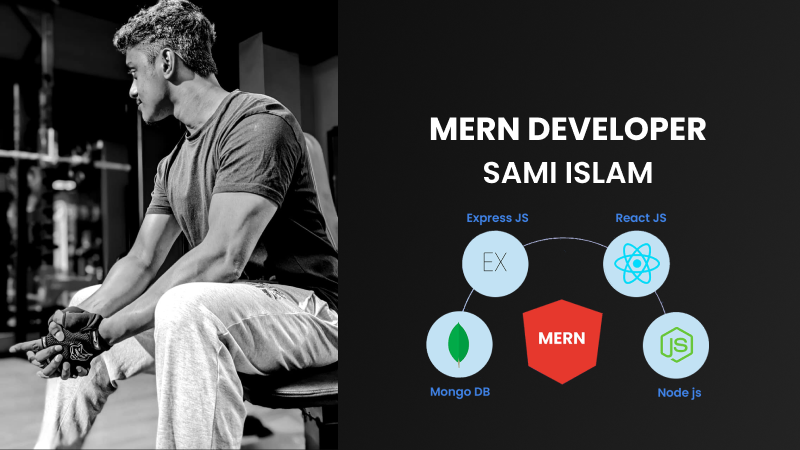
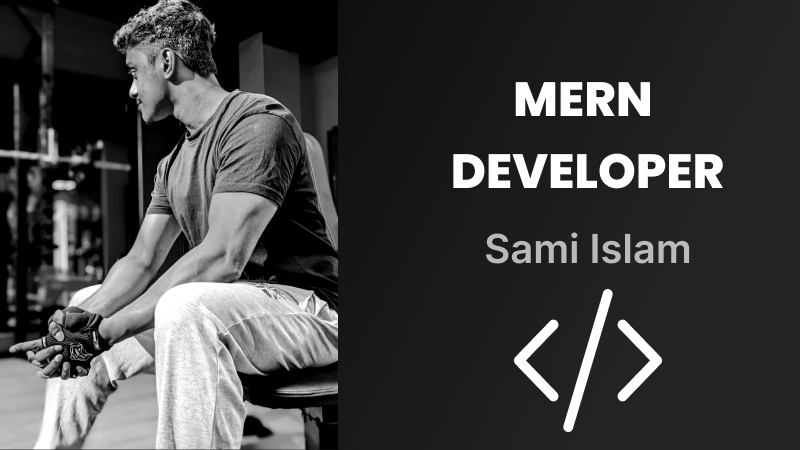
readme

Changed region(s): [[0.5312, 0.4667, 0.9062, 0.9644], [0.5312, 0.1556, 0.9062, 0.3111], [0.5625, 0.3422, 0.9062, 0.4356]]

diff --git a/README.md b/README.md
@@ -1,9 +1,10 @@
+
+<img align='center' width='100%' src="./Frame 1.png">
 <h1>MERN STACK DEVELOPER,
  <br>"Sami Islam"</h1>
-
-## I build websites that create impact.
-<img align='center' width='100%' src="./Frame 1.png">
  <p align='left' width='47%' >It's me Sami Islam, a mern developer with three years of experience. I specialize in HTML, CSS, JavaScript, React, Node.js, Express.js, MongoDB, Next.js, and more. My passion lies in crafting engaging websites that merge creativity with functionality. I enjoy collaborating with teams and turning client requirements into visually stunning and user-friendly applications. With a constant thirst for knowledge, I stay up-to-date with the latest industry trends and continuously expand my skillset. I'm excited to connect with fellow professionals, share insights, and contribute to the ever-evolving world of web development. Let's inspire and create together!</p>
+ 
+
 <img align='left' width='47%' height="400px" src="https://github-readme-stats.vercel.app/api?username=sami12344&show_icons=true&theme=radical" alt="sami12344's GitHub state">
 
 <img align='left' width='47%' height="400px" src="https://github-readme-stats.vercel.app/api/top-langs/?username=sami12344&layout=pie" alt="sami12344's GitHub state">
